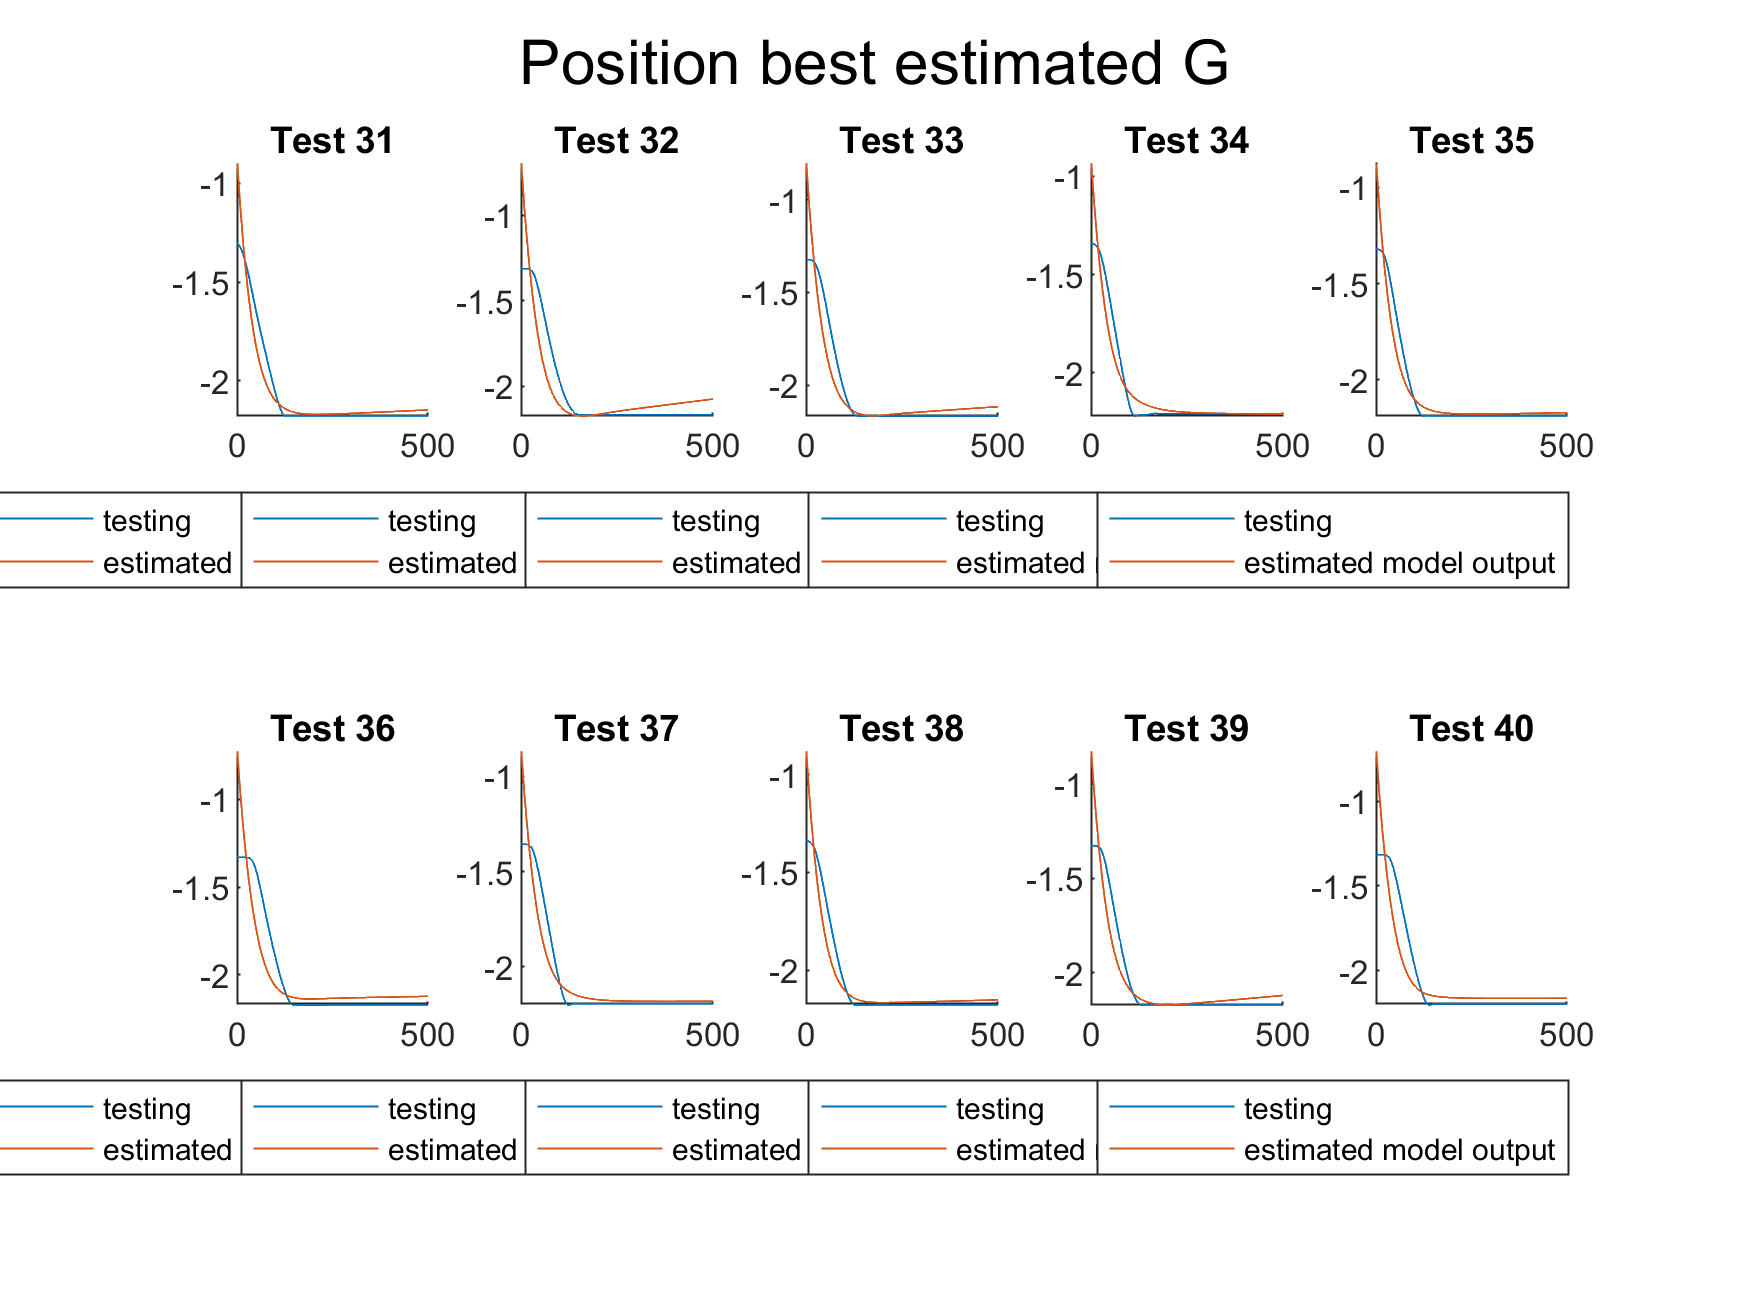
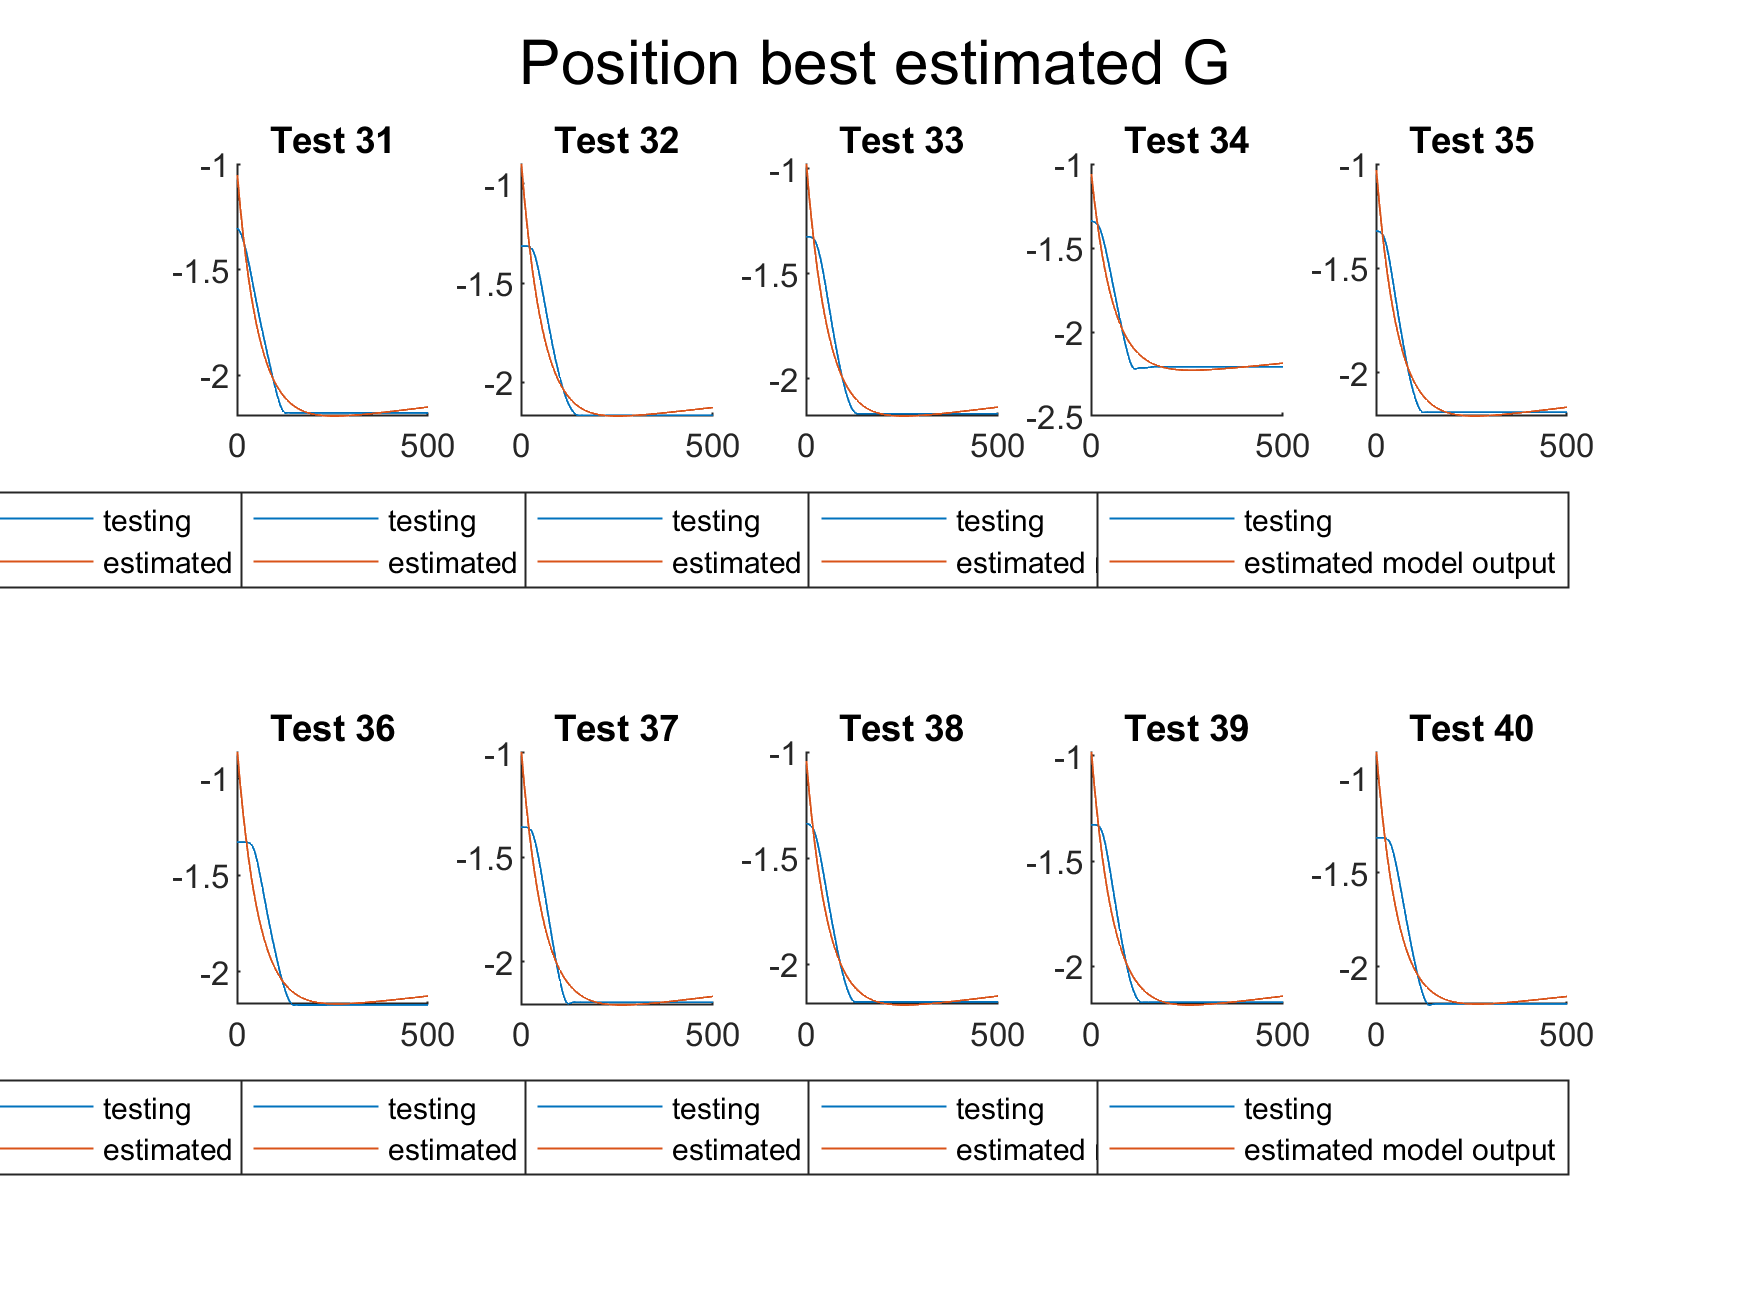
Working on G estimation script, to do torque vel estimation case

diff --git a/mains/G_estimation_vel.m b/mains/G_estimation_vel.m
@@ -17,27 +17,22 @@ sz = [1 9];
 varTypes = {'char', 'double', 'double', 'double', 'cell', 'double', 'cell', 'cell', 'cell'};
 varNames = {'Type', '# zeros', '# poles', '# est exps', 'est model', 'est fit', 'est num', 'est den', 'est poles, (s+p)'};
 G_resultTable = table('Size', sz, 'VariableTypes', varTypes, 'VariableNames', varNames);
-G_resultTable_zero = table('Size', sz, 'VariableTypes', varTypes, 'VariableNames', varNames);
-G_resultTable_vel = table('Size', sz, 'VariableTypes', varTypes, 'VariableNames', varNames);
 
 clear varTypes varNames sz
 
 %% SAVE G RESULT TABLE - To store results of experiments up to now
 save G_resultTable
-save G_resultTable_zero
-save G_resultTable_vel
 
 %% LOAD G RESULT TABLE - If already defined system
-load('G_resultTable.mat')
-load('G_resultTable_zero.mat')
-load('G_resultTable_vel.mat')
+load G_resultTable.mat
+
 
 %% DATA FILTERING: Architecture - Decoder
 
 % GRAVITY COMP - None -> good data - 64 exps 
 selection = actualFixedDataTableExpanded.direction == "F" & actualFixedDataTableExpanded.target == "POS1" & actualFixedDataTableExpanded.controller == "COMP" & actualFixedDataTableExpanded.decoder == "NONE";
 selected_indeces = find(selection)';
-architecture = ArchitectureEnum.COMP_NONE;
+estimationCase = EstimationCasesEnum.COMP_NONE;
 torqueMaxAllowed = 5;
 torqueMinAllowed = -5;
 
@@ -46,7 +41,7 @@ trimStartIndex = 100;
 %% FORCE - PLAIN_P -> bad data after cleaning - 35 exps
 selection = actualFixedDataTableExpanded.direction == "F" & actualFixedDataTableExpanded.target == "POS1" & actualFixedDataTableExpanded.controller == "FORCE" & actualFixedDataTableExpanded.decoder == "PLAIN_P";
 selected_indeces = find(selection)';
-architecture = ArchitectureEnum.FORCE_PLAIN_P;
+estimationCase = EstimationCasesEnum.FORCE_PLAIN_P;
 torqueMaxAllowed = 1;
 torqueMinAllowed = -1;
 trimStartIndex = 220;
@@ -54,14 +49,14 @@ trimStartIndex = 220;
 %% POS_V - PLAIN_P -> decent data after cleaning - 22 exps
 selection = actualFixedDataTableExpanded.direction == "F" & actualFixedDataTableExpanded.target == "POS1" & actualFixedDataTableExpanded.controller == "POS_V" & actualFixedDataTableExpanded.decoder == "PLAIN_P";
 selected_indeces = find(selection)';
-architecture = ArchitectureEnum.POS_V_PLAIN_P;
+estimationCase = EstimationCasesEnum.POS_V_PLAIN_P;
 torqueMaxAllowed = 1.5;
 torqueMinAllowed = -0.5;
 trimStartIndex = 80;
 %% FIX_IMP - PLAIN_P -> decent data after cleaning - 29 exps
 selection = actualFixedDataTableExpanded.direction == "F" & actualFixedDataTableExpanded.target == "POS1" & actualFixedDataTableExpanded.controller == "FIX_IMP" & actualFixedDataTableExpanded.decoder == "PLAIN_P";
 selected_indeces = find(selection)';
-architecture = ArchitectureEnum.FIX_IMP_PLAIN_P;
+estimationCase = EstimationCasesEnum.FIX_IMP_PLAIN_P;
 torqueMaxAllowed = 1.5;
 torqueMinAllowed = -0.5;
 trimStartIndex = 45;
@@ -69,7 +64,7 @@ trimStartIndex = 45;
 %% ADM - PLAIN_P -> decent data after cleaning - 24 exps
 selection = actualFixedDataTableExpanded.direction == "F" & actualFixedDataTableExpanded.target == "POS1" & actualFixedDataTableExpanded.controller == "ADM" & actualFixedDataTableExpanded.decoder == "PLAIN_P";
 selected_indeces = find(selection)';
-architecture = ArchitectureEnum.ADM_PLAIN_P;
+estimationCase = EstimationCasesEnum.ADM_PLAIN_P;
 torqueMaxAllowed = 0.5;
 torqueMinAllowed = -0.075;
 trimStartIndex = 50;
@@ -77,7 +72,7 @@ trimStartIndex = 50;
 %% FORCE_INT - PLAIN_P -> 26 exps
 selection = actualFixedDataTableExpanded.direction == "F" & actualFixedDataTableExpanded.target == "POS1" & actualFixedDataTableExpanded.controller == "FORCE_INT" & actualFixedDataTableExpanded.decoder == "PLAIN_P";
 selected_indeces = find(selection)';
-architecture = ArchitectureEnum.FORCE_INT_PLAIN_P;
+estimationCase = EstimationCasesEnum.FORCE_INT_PLAIN_P;
 torqueMaxAllowed = 5;
 torqueMinAllowed = -1;
 trimStartIndex = 50;
@@ -86,7 +81,7 @@ trimStartIndex = 50;
 %% FORCE - MULTICH8 -> bad data  - 23 exps
 selection = actualFixedDataTableExpanded.direction == "F" & actualFixedDataTableExpanded.target == "POS1" & actualFixedDataTableExpanded.controller == "FORCE" & actualFixedDataTableExpanded.decoder == "MULTICH8";
 selected_indeces = find(selection)';
-architecture = ArchitectureEnum.FORCE_MULTICH8;
+estimationCase = EstimationCasesEnum.FORCE_MULTICH8;
 torqueMaxAllowed = 0.5;
 torqueMinAllowed = -0.2;
 trimStartIndex = 10;
@@ -94,7 +89,7 @@ trimStartIndex = 10;
 %% POS_V - MULTICH8 -> good data after cleaning - 25 exps
 selection = actualFixedDataTableExpanded.direction == "F" & actualFixedDataTableExpanded.target == "POS1" & actualFixedDataTableExpanded.controller == "POS_V" & actualFixedDataTableExpanded.decoder == "MULTICH8";
 selected_indeces = find(selection)';
-architecture = ArchitectureEnum.POS_V_MULTICH8;
+estimationCase = EstimationCasesEnum.POS_V_MULTICH8;
 torqueMaxAllowed = 1.5;
 torqueMinAllowed = -0.5;
 trimStartIndex = 50;
@@ -102,7 +97,7 @@ trimStartIndex = 50;
 %% FIX_IMP - MULTICH8 -> good data after cleaning - 28 exps
 selection = actualFixedDataTableExpanded.direction == "F" & actualFixedDataTableExpanded.target == "POS1" & actualFixedDataTableExpanded.controller == "FIX_IMP" & actualFixedDataTableExpanded.decoder == "MULTICH8";
 selected_indeces = find(selection)';
-architecture = ArchitectureEnum.FIX_IMP_MULTICH8;
+estimationCase = EstimationCasesEnum.FIX_IMP_MULTICH8;
 torqueMaxAllowed = 1.5;
 torqueMinAllowed = -0.5;
 trimStartIndex = 90;
@@ -110,7 +105,7 @@ trimStartIndex = 90;
 %% ADM - MULTICH8 -> bad data after cleaning - 38 exps
 selection = actualFixedDataTableExpanded.direction == "F" & actualFixedDataTableExpanded.target == "POS1" & actualFixedDataTableExpanded.controller == "ADM" & actualFixedDataTableExpanded.decoder == "MULTICH8";
 selected_indeces = find(selection)';
-architecture = ArchitectureEnum.ADM_MULTICH8;
+estimationCase = EstimationCasesEnum.ADM_MULTICH8;
 torqueMaxAllowed = 0.3;
 torqueMinAllowed = -0.05;
 trimStartIndex = 110;
@@ -118,7 +113,7 @@ trimStartIndex = 110;
 %% FORCE_INT - MULTICH8 -> 46 exps
 selection = actualFixedDataTableExpanded.direction == "F" & actualFixedDataTableExpanded.target == "POS1" & actualFixedDataTableExpanded.controller == "FORCE_INT" & actualFixedDataTableExpanded.decoder == "MULTICH8";
 selected_indeces = find(selection)';
-architecture = ArchitectureEnum.FORCE_INT_MULTICH8;
+estimationCase = EstimationCasesEnum.FORCE_INT_MULTICH8;
 torqueMaxAllowed = 5;
 torqueMinAllowed = -5;
 trimStartIndex = 60;
@@ -130,13 +125,6 @@ Ts = 0.01;
 torqueEndEpsilon = 0.2;
 
 maxSignalLength = 400;
-
-
-% SET G ESTIMATION TECHNIQUE
-
-G_estCase=GEstCasesEnum.NO_TORQUE_EDIT;
-% G_estCase=GEstCasesEnum.TORQUE_END_AT_ZERO;
-% G_estCase=GEstCasesEnum.TORQUE_VEL_ESTIMATION;
 
 G_plot_signals = true;
 
@@ -151,13 +139,15 @@ discardDecreaseStartingTorqueIdx = 30;
 % outliers data filtering based on standard deviation, 
 stdOutlierRemoval = true;
 
+% Align both pos at torque at zero
+alignAtZero = false;
+
 % DATA CLEANING
 clc
 close all
 
 allTrimmedTorque = [];
 allTrimmedPos = [];
-allTrimmedVel = [];
 
 if G_plot_signals
     figure; 
@@ -170,7 +160,6 @@ if G_plot_signals
     title('FILT: Torque output from experiments')
     hAx4 = subplot(2,1,2);
     title('FILT: Position of the experiments') 
-    
     axes(hAx1)
     hold on
     axes(hAx2)
@@ -179,11 +168,6 @@ if G_plot_signals
     hold on
     axes(hAx4)
     hold on
-    
-    figure;
-    hAx5 = axes;
-    hold on;
-    title('Computed istantaneous velocity from position')
 end
 
 % Find the torque index of the further max value of the entire set
@@ -244,38 +228,21 @@ for expId = selected_indeces  %for each experiment
     
     if(length(augmTorque) < maxSignalLength)
         pointsToAddAtEnd = maxSignalLength - length(augmTorque);
+        adjustedTorque = [augmTorque; ones(pointsToAddAtEnd,1)*lastValOfTorque];
         adjustedPos = [augmPos; ones(pointsToAddAtEnd,1)*lastValOfPos]; 
-        
-        if G_estCase==GEstCasesEnum.NO_TORQUE_EDIT
-            adjustedTorque = [augmTorque; ones(pointsToAddAtEnd,1)*lastValOfTorque];
-        end
-        
-        if G_estCase==GEstCasesEnum.TORQUE_END_AT_ZERO || G_estCase==GEstCasesEnum.TORQUE_VEL_ESTIMATION
-            adjustedTorque = [augmTorque; zeros(pointsToAddAtEnd,1)];
-        end
     else
         adjustedTorque = augmTorque(1:maxSignalLength);
         adjustedPos = augmPos(1:maxSignalLength);
     end
     
-    
     adjustedTorque = [adjustedTorque; ones(maxSignalLength/2,1)*adjustedTorque(end)];
     adjustedPos = [adjustedPos; ones(maxSignalLength/2,1)*adjustedPos(end)];
-        
     
-    % istantaneous velocity computation
-    adjustedVel = zeros(length(adjustedPos),1);
-    for p = 1:length(adjustedPos)-1
-        adjustedVel(p) = (adjustedPos(p+1)-adjustedPos(p))/Ts ;
-    end
-    clear p 
-    
-    allTrimmedTorque(i,:) = adjustedTorque';
-    allTrimmedPos(i,:) = adjustedPos';
-    allTrimmedVel(i,:) = adjustedVel';
+    allTrimmedTorque(i,:) = adjustedTorque;
+    allTrimmedPos(i,:) = adjustedPos;
     
     i = i+1;
-    if G_plot_signals
+    if G_plot_signals 
         plot(hAx1,torque);
         plot(hAx2,position);
     end
@@ -294,33 +261,48 @@ if stdOutlierRemoval
     end
 end
 
+% Align at zero both position and torque, methods tested for obtaining
+% better starting conditions for responses.
+
+if alignAtZero
+    for expId=1:1:size(allTrimmedTorque,1)
+        torqFirstVal=allTrimmedTorque(expId,1);
+        posFirstVal=allTrimmedPos(expId,1);
+
+        allTrimmedTorque(expId,:) = allTrimmedTorque(expId,:)-torqFirstVal;
+        allTrimmedPos(expId,:) =  allTrimmedPos(expId,:)-posFirstVal;
+    end
+end
+
+
+if alignAtZero
+    for expId=1:1:size(allTrimmedTorque,1)
+        torqFirstVal=allTrimmedTorque(expId,1);
+        posFirstVal=allTrimmedPos(expId,1);
+
+        allTrimmedTorque(expId,:) = allTrimmedTorque(expId,:)-torqFirstVal;
+        allTrimmedPos(expId,:) =  allTrimmedPos(expId,:)-posFirstVal;
+    end
+end
 
 % Trim at start 
 supTorque = [];
 supPos = [];
-supVel = [];
-
 for expId=1:1:size(allTrimmedTorque,1)
     supTorque(expId,:) = allTrimmedTorque(expId, trimStartIndex:end);
     supPos(expId,:) =  allTrimmedPos(expId, trimStartIndex:end);
-    supVel(expId,:) =  allTrimmedVel(expId, trimStartIndex:end);
 end
 allTrimmedTorque = supTorque;
 allTrimmedPos = supPos;
-allTrimmedVel = supVel;
-
 clear supTorque supPos;
 
 if G_plot_signals 
     for testIdx=1:1:size(allTrimmedTorque,1)
         plot(hAx3, allTrimmedTorque(testIdx, :));
         plot(hAx4, allTrimmedPos(testIdx, :));
-        plot(hAx5, allTrimmedVel(testIdx, :));
     end
 end
-clear hAx1 hAx2 hAx3 hAx4 hAx5 firstValOfPos firstValOfTorque expId augmPos augmTorque 
-clear adjustedPos adjustedVel adjustedTorque i maxIdx pointsToAddStart pointsToAddAtEnd
-clear torque position
+
 
 size(allTrimmedPos,1)
 %% Model Estimation
@@ -329,13 +311,9 @@ clc;
 
 % Number of poles and zeros for the estimated models
 G_num_zeros = 0;
+G_num_poles = 2;
 
-if G_estCase == GEstCasesEnum.TORQUE_VEL_ESTIMATION
-    G_num_poles = 1;
-else
-    G_num_poles = 2;
-end
-    % For each esperiment estimate G, O(n) and construct iddata structures
+% For each esperiment estimate G, O(n) and construct iddata structures
 G_iddata = {};
 G_sys_est = {};
 
@@ -343,13 +321,9 @@ G_sys_est = {};
 opt = tfestOptions('EnforceStability',true,'InitialCondition','estimate');
 
 for expIdx=1:1:size(allTrimmedTorque,1)
-    if G_estCase == GEstCasesEnum.TORQUE_VEL_ESTIMATION
-        G_est_iddata = iddata(allTrimmedVel(expIdx,:)', allTrimmedTorque(expIdx,:)', Ts); 
-    else
-        G_est_iddata = iddata(allTrimmedPos(expIdx,:)', allTrimmedTorque(expIdx,:)', Ts); 
-    end
+    G_est_iddata = iddata(allTrimmedPos(expIdx,:)', allTrimmedTorque(expIdx,:)', Ts); 
     G_iddata{expIdx} = G_est_iddata;
-    G_sys_est{expIdx} = tfest(G_est_iddata, G_num_poles, G_num_zeros,opt);
+    G_sys_est{expIdx} = tfest(G_est_iddata, G_num_poles, G_num_zeros,opt); 
 end
 
 % initialization of variables for plot function
@@ -367,24 +341,19 @@ clear expIdx G_est_iddata opt;
 % RESULTS
 clc
 fprintf('\nG: Best model fit from single experiment estimation: %.3f\n', G_bestModelFit);
-
-
+%
+% s = tf('s');
+% J = 0.068;
+% D = 0.1; %da 0.1 a 0.001
+% G_assumed = zpk(zero(zpk(1/(J*s^2 + D*s))),pole(zpk(1/(J*s^2 + D*s))),1);
+% [G_Assumed_num, G_Assumed_den] = tfdata(G_assumed, 'v');
 G_best = zpk(zero(G_bestModel),pole(G_bestModel),1);
 [G_best_num, G_best_den] = tfdata(G_best, 'v');
 
+G_resultTable(estimationCase, :) = {char(estimationCase), G_num_zeros, G_num_poles, size(allTrimmedTorque,1), {G_best}, G_bestModelFit, {G_best_num}, {G_best_den}, {pole(G_best)}};
 
-if G_estCase == GEstCasesEnum.NO_TORQUE_EDIT
-    G_resultTable(architecture, :) = {char(architecture), G_num_zeros, G_num_poles, size(allTrimmedTorque,1), {G_best}, G_bestModelFit, {G_best_num}, {G_best_den}, {pole(G_best)}};
-end
-if G_estCase == GEstCasesEnum.TORQUE_END_AT_ZERO
-    G_resultTable_zero(architecture, :) = {char(architecture), G_num_zeros, G_num_poles, size(allTrimmedTorque,1), {G_best}, G_bestModelFit, {G_best_num}, {G_best_den}, {pole(G_best)}};
-end
-if G_estCase == GEstCasesEnum.TORQUE_VEL_ESTIMATION
-    G_resultTable_vel(architecture, :) = {char(architecture), G_num_zeros, G_num_poles, size(allTrimmedTorque,1), {G_best}, G_bestModelFit, {G_best_num}, {G_best_den}, {pole(G_best)}};
-end
 % PLOTS
 close all
-imageSavePath = "C:\\Users\\nicol\\Desktop\\rpcProject\\myo_tools_testing\\RPC_MN_project\\images\\G_estimation\\";
-saveImage = false;
-
-G_plotFunction(allTrimmedTorque, allTrimmedPos, G_bestModelOutput, saveImage, imageSavePath, architecture, G_estCase )
+imageSavePath = "C:\\Users\\nicol\\Desktop\\rpcProject\\myo_tools_testing\\RPC_MN_project\\images\\";
+saveImage = true;
+plotFunction(false, false, true, allTrimmedTorque, allTrimmedPos, {}, {}, G_bestModelOutput, saveImage, imageSavePath, estimationCase)

diff --git a/functions/G_plotFunction.m b/functions/G_plotFunction.m
@@ -1,0 +1,33 @@
+function G_plotFunction(allTrimmedTorque, allTrimmedPos, G_bestModelOutput, saveImages, path, architecture, G_estCase)
+if G_estCase == GEstCasesEnum.TORQUE_END_AT_ZERO
+    path= path+"torqueEndAtZero//";
+end
+
+if G_estCase == GEstCasesEnum.TORQUE_VEL_ESTIMATION
+    path= path+"torqueVelEstimation//";
+end
+
+for j=1:1:ceil(size(allTrimmedTorque,1)/10)
+    figure(j)
+    sgtitle('Position best estimated G');
+    for i=1:1:10
+        testIdx=(j-1)*10+i;
+        if(size(allTrimmedTorque,1)<testIdx)
+            continue
+        end
+        subplot(2,5,i)
+        titleStr=['Test ',num2str(testIdx)];
+        hold on;
+        title(titleStr)
+        plot(1:size(allTrimmedPos,2),allTrimmedPos(testIdx,:));
+        plot(1:size(G_bestModelOutput,2),G_bestModelOutput(testIdx,:));
+        legend('Location','southoutside')
+        legend('testing', 'estimated model output')
+    end
+    if saveImages
+        savePath = path + string(architecture) + "_" + j + ".png";
+        print(gcf, savePath ,'-dpng','-r300');
+    end
+end
+
+

diff --git a/enum/ArchitectureEnum.m b/enum/ArchitectureEnum.m
@@ -1,4 +1,4 @@
-classdef EstimationCasesEnum < int32
+classdef ArchitectureEnum < int32
    enumeration
       COMP_NONE(1), 
       FORCE_PLAIN_P(2), POS_V_PLAIN_P(3), FIX_IMP_PLAIN_P(4), ADM_PLAIN_P(5), FORCE_INT_PLAIN_P(6), 

diff --git a/enum/GEstCasesEnum.m b/enum/GEstCasesEnum.m
@@ -1,0 +1,5 @@
+classdef GEstCasesEnum < int32
+   enumeration
+      NO_TORQUE_EDIT(1), TORQUE_END_AT_ZERO(2), TORQUE_VEL_ESTIMATION(3),
+   end
+end
